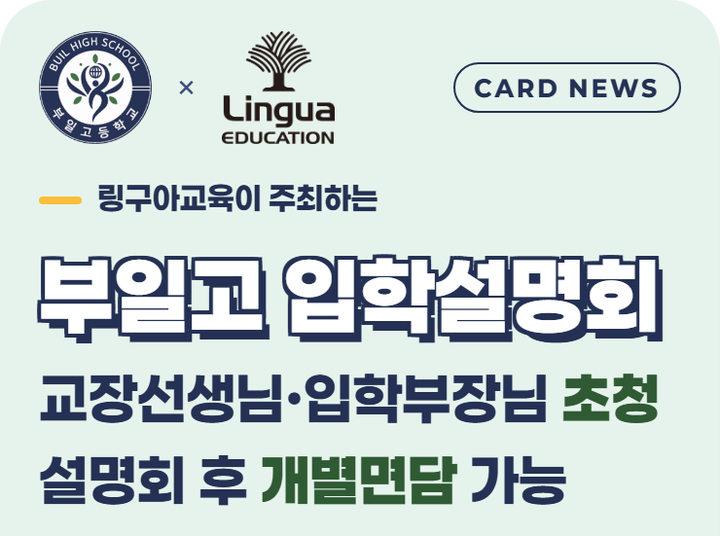
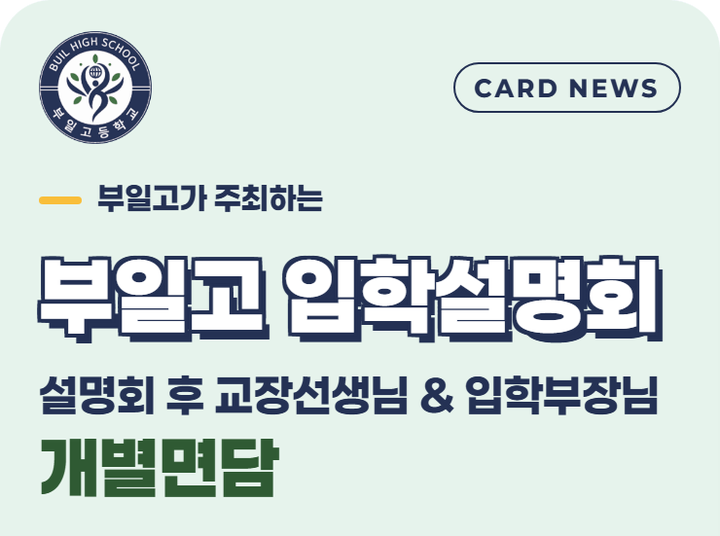
docs: 첫 화면 부일고 표지 · 4번 줄 새 글로 (2026-10-08)
대표 지시: 부일고 덱 표지 링구아 로고 빼기 · 「부일고가 주최하는」 · 「설명회 후 교장선생님 & 입학부장님 개별면담」.
첫 화면 4번 칸 표지 그림을 새 덱 표지로, 1번 칸 겹친 표지 중2 는 계획 기준으로 다시 고름.

diff --git a/index.html b/index.html
@@ -163,7 +163,7 @@ footer .copy{margin-top:4px;font-size:13px}
 <body>
 <header class="top"><div class="wrap"><p class="brand">링구아교육&nbsp;· 2026년 10월</p><h1>링구아 10월 새소식</h1><p class="lead">관심 주제를 눌러주세요 🙂</p></div></header>
 <main class="wrap grid">
-<section class="tile one" id="naesin"><div class="body"><div class="head"><span class="no" aria-hidden="true">1</span><h2><a href="naesin/"><span class="sr">1. </span>링구아 <span class="dot">중등</span> 내신파이널 체크</a></h2><span class="tag">시험직전 족집게</span><p class="desc">학교를 누르면 중1&nbsp;· 중2&nbsp;· 중3 학년별로 봅니다</p></div><form class="find" id="find" role="search" hidden><label for="q">우리 학교 찾기</label><input id="q" type="search" placeholder="학교 이름 찾기 (예: 여명)" autocomplete="off" enterkeyhint="search"><ul class="hits" id="hits"></ul><p class="none" id="none" role="status" hidden>찾는 학교가 없습니다.</p></form><a class="cta" href="naesin/"><span class="meta cnt">중학교 <strong>70</strong>곳</span><span class="go">학교 목록 열기 →</span></a></div><div class="stage fan" aria-hidden="true"><img src="home/cover-geojeyeo-m1.png" alt="" width="480" height="441" decoding="async" loading="lazy"><img src="home/cover-geumyang-m2.png" alt="" width="480" height="441" decoding="async" loading="lazy"><img src="home/cover-gaeseong-m3.png" alt="" width="480" height="441" decoding="async" loading="lazy"></div></section>
+<section class="tile one" id="naesin"><div class="body"><div class="head"><span class="no" aria-hidden="true">1</span><h2><a href="naesin/"><span class="sr">1. </span>링구아 <span class="dot">중등</span> 내신파이널 체크</a></h2><span class="tag">시험직전 족집게</span><p class="desc">학교를 누르면 중1&nbsp;· 중2&nbsp;· 중3 학년별로 봅니다</p></div><form class="find" id="find" role="search" hidden><label for="q">우리 학교 찾기</label><input id="q" type="search" placeholder="학교 이름 찾기 (예: 여명)" autocomplete="off" enterkeyhint="search"><ul class="hits" id="hits"></ul><p class="none" id="none" role="status" hidden>찾는 학교가 없습니다.</p></form><a class="cta" href="naesin/"><span class="meta cnt">중학교 <strong>70</strong>곳</span><span class="go">학교 목록 열기 →</span></a></div><div class="stage fan" aria-hidden="true"><img src="home/cover-geojeyeo-m1.png" alt="" width="480" height="441" decoding="async" loading="lazy"><img src="home/cover-guseoyeo-m2.png" alt="" width="480" height="441" decoding="async" loading="lazy"><img src="home/cover-gaeseong-m3.png" alt="" width="480" height="441" decoding="async" loading="lazy"></div></section>
 <a class="tile" id="middle" href="2610-middle/"><div class="head"><span class="no" aria-hidden="true">2</span><h2><span class="sr">2. </span>링구아 중등부 영어내신 &amp; 모의고사 실적</h2><p class="desc em">내신만점, 내신평균, 모의고사 1,2등급 결과</p></div><div class="stage"><img src="home/cover-2610-middle.png" alt="" width="720" height="486" decoding="async"></div><div class="foot"><span class="meta">링구아어학원 중등부&nbsp;· 9장</span><span class="go">열어 보기 →</span></div></a>
 <a class="tile" id="consulting" href="2610-consulting/"><div class="head"><span class="no" aria-hidden="true">3</span><h2><span class="sr">3. </span>링구아 교육컨설팅 학부모안내문</h2><p class="desc">특목자사고 입시 : 원서에서 합격까지</p></div><div class="stage"><img src="home/cover-2610-consulting.png" alt="" width="720" height="498" decoding="async" loading="lazy"></div><div class="foot"><span class="meta">링구아교육컨설팅&nbsp;· 13장</span><span class="go">열어 보기 →</span></div></a>
 <a class="tile has-pts" id="buil" href="2610-buil/"><div class="head"><span class="no" aria-hidden="true">4</span><h2><span class="sr">4. </span>부일고 입학설명회</h2><p class="desc">10월 17일(토) 오전 11시&nbsp;· 동래본원 대강당</p><ul class="pts"><li>설명회 후 교장선생님 &amp; 입학부장님 <b>개별면담</b></li></ul></div><div class="stage"><img src="home/cover-2610-buil.png" alt="" width="720" height="536" class="crop" style="--crop:720/360" decoding="async" loading="lazy"></div><div class="foot"><span class="meta">부일고 주최&nbsp;· 8장</span><span class="go">열어 보기 →</span></div></a>
